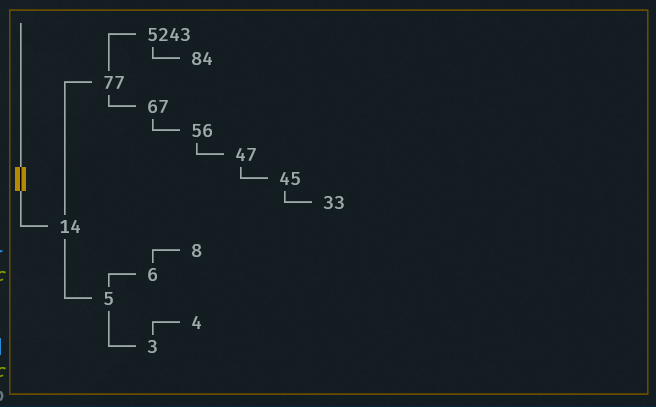
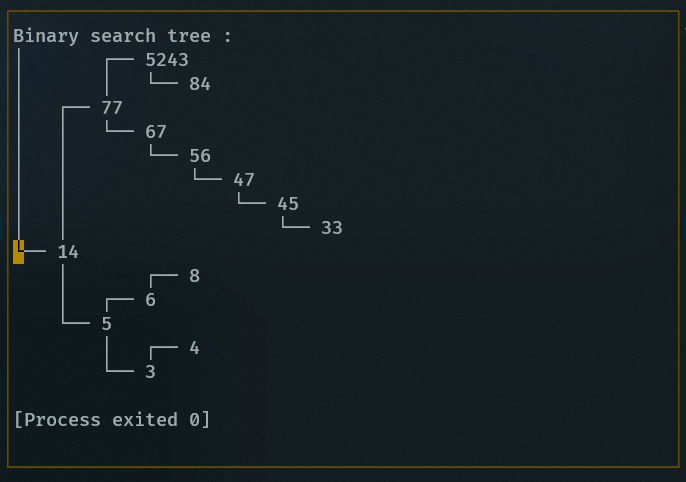
improvement of the result of the display method

diff --git a/Binary_Search_Tree.js b/Binary_Search_Tree.js
@@ -114,7 +114,7 @@ class BinarySearchTree {
         prettyPrint(node.left, `${prefix}${isLeft ? "    " : "│   "}`, true);
       }
     }
-    console.log("Binary search tree")
+    console.log("Binary search tree : ");
     prettyPrint(node || this.root);
   }
 
@@ -146,3 +146,10 @@ class BinarySearchTree {
     this.display();
   }
 }
+
+const array = [
+  14, 14, 5, 77, 3, 4, 67, 3, 4, 6, 56, 5, 5243, 47, 45, 47, 8, 84, 33,
+];
+const bst = new BinarySearchTree();
+bst.insertArray(array);
+bst.display();
